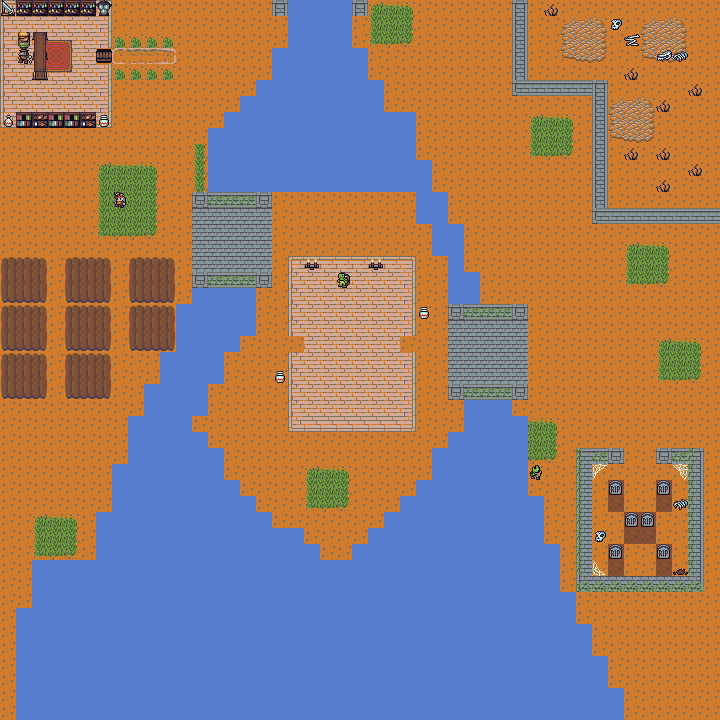
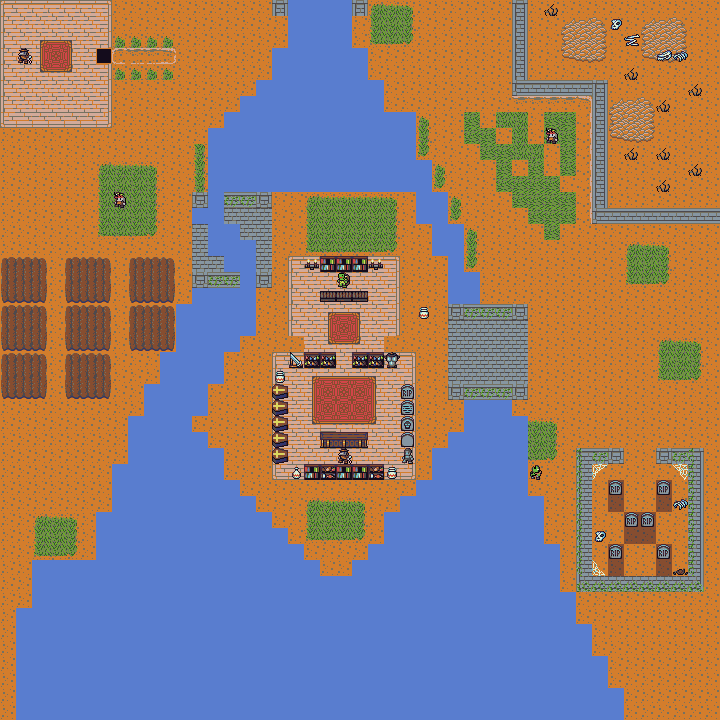
moved rattavan and isokid to correct location

diff --git a/json/map_list.js b/json/map_list.js
@@ -70,8 +70,8 @@ maps = [{
         "name": "IsoKid",
         "type": "npc",
         "visible": true,
-        "x": 112,
-        "y": 192,
+        "x": 544,
+        "y": 128,
         "width": 16,
         "height": 16,        
         "dialog": ["I've been searching for monster friends in the grass all day!", "I hope I can find a \nshiny one!"],
@@ -81,8 +81,8 @@ maps = [{
         "name": "Rattavan",
         "type": "npc",
         "visible": true,
-        "x": 16,
-        "y": 48,
+        "x": 336,
+        "y": 448,
         "width": 16,
         "height": 16,        
         "dialog": ["Welcome to Rattavan's Gently \nUsed Fine Goods!", "No Refunds kid."],
